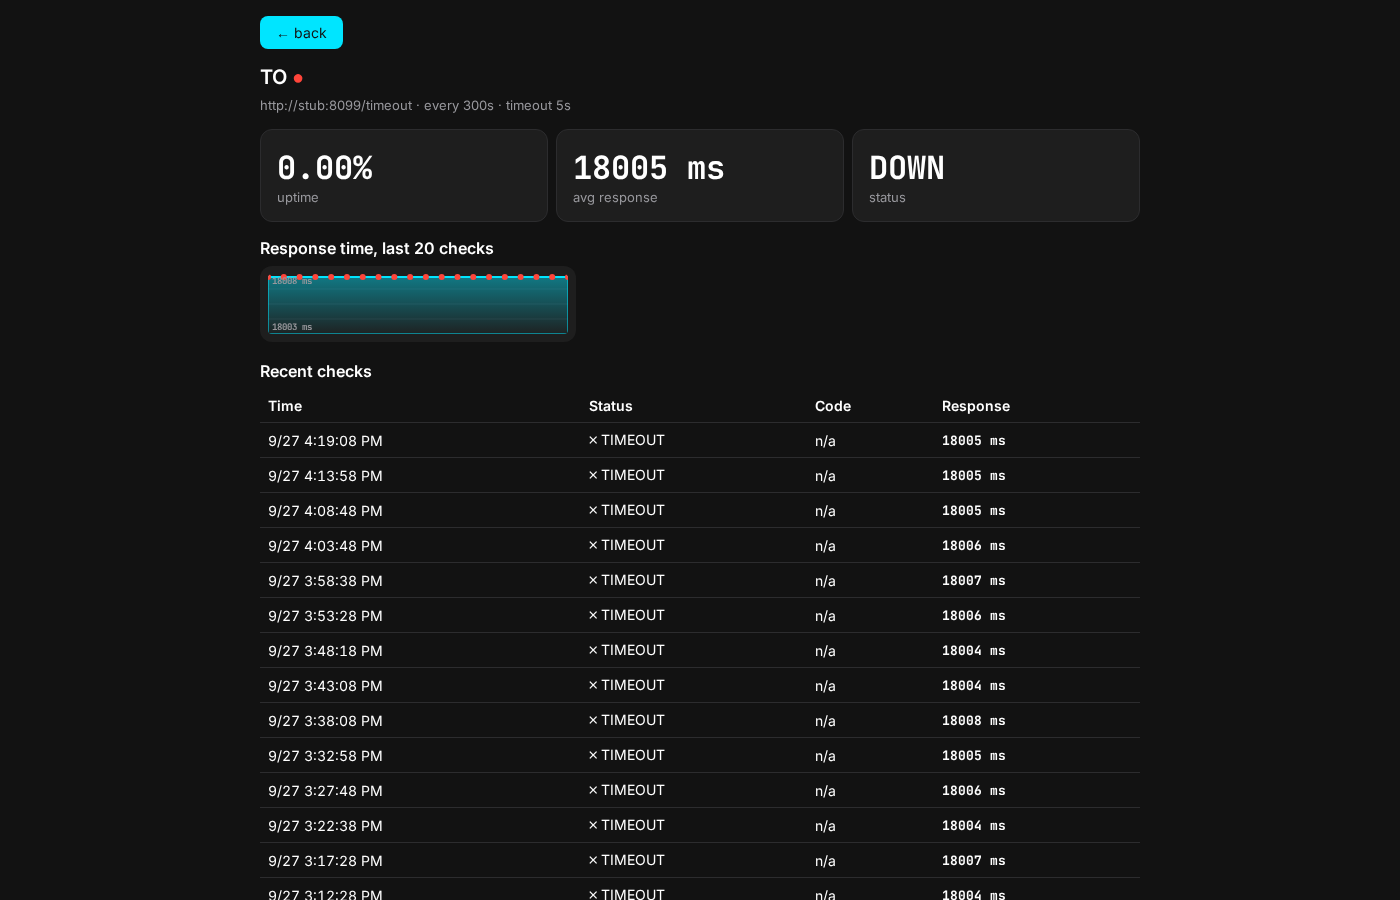
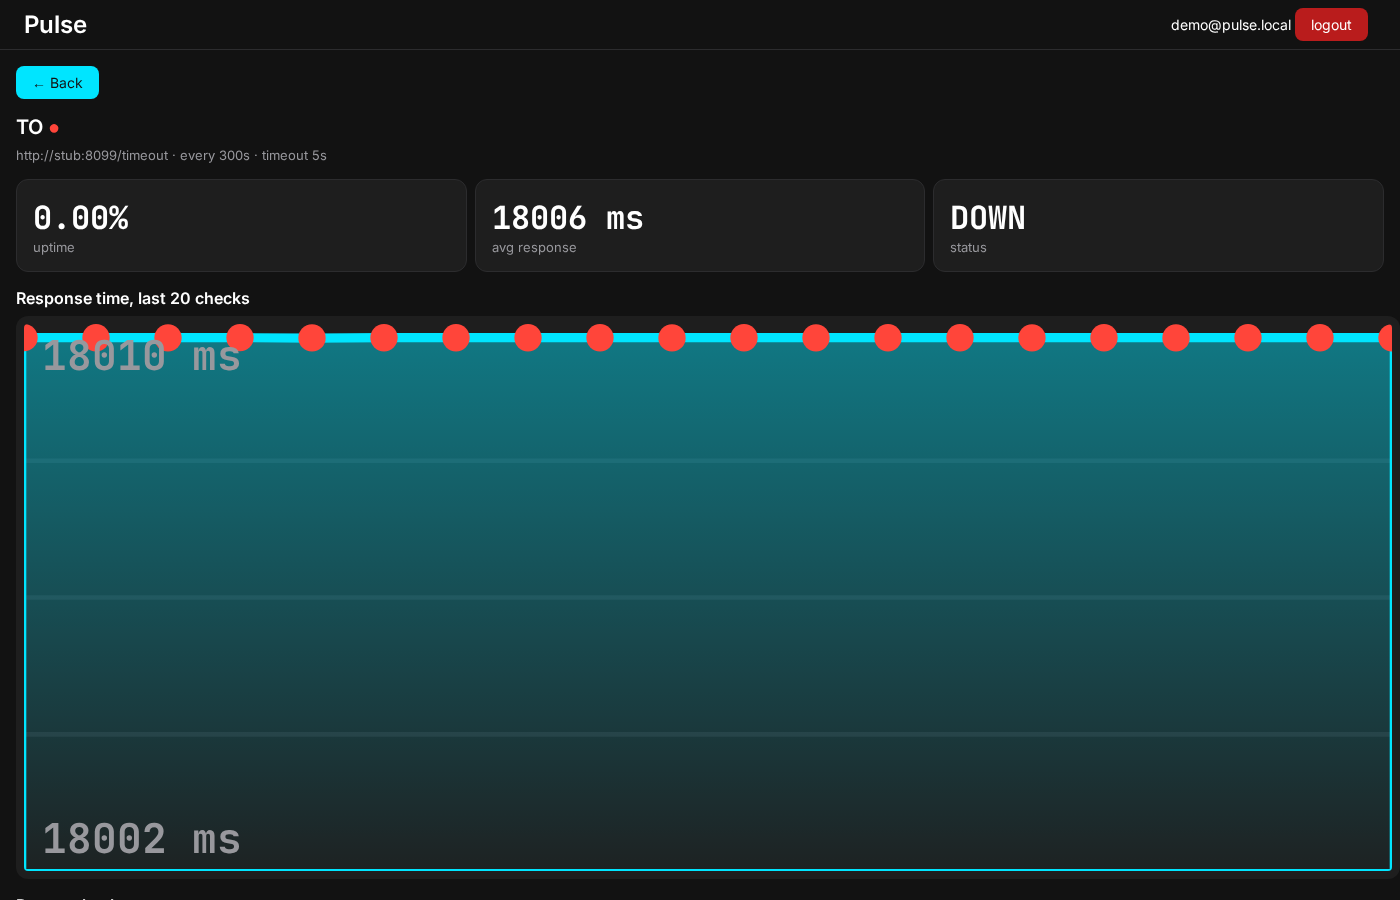
feat(ui): detail wide + Back + big chart + persistent header, fix dup tabs

diff --git a/src/features/monitors/components/MonitorDetailScreen.jsx b/src/features/monitors/components/MonitorDetailScreen.jsx
@@ -4,100 +4,113 @@ import { formatDateTime, formatCheckTime } from '../../../utils/formatDate.js'
 import { Dot } from '../../../components/ui/Dot.jsx'
 import { Spark } from '../../../components/ui/Spark.jsx'
 import { DetailStats } from '../../../components/ui/Stats.jsx'
+import { Topbar } from '../../../components/ui/Topbar.jsx'
 
-export function MonitorDetailScreen({ monitorUC, id, onBack, onChanged }) {
+export function MonitorDetailScreen({ monitorUC, id, onBack, onChanged, user, onLogout }) {
   const { monitor: m, checks, incidents, loading, loadError, reload } = useMonitorDetail(monitorUC, id)
 
   if (loading)
     return (
-      <div className="wrap">
-        <p className="muted">Loading monitor…</p>
-      </div>
+      <>
+        <Topbar email={user.email} onLogout={onLogout} />
+        <div className="wrap wrap-wide">
+          <p className="muted">Loading monitor…</p>
+        </div>
+      </>
     )
   if (loadError) {
     return (
-      <div className="wrap">
-        <p className="error">{loadError}</p>
-        <button onClick={reload}>Retry</button> <button onClick={onBack}>← back</button>
-      </div>
+      <>
+        <Topbar email={user.email} onLogout={onLogout} />
+        <div className="wrap wrap-wide">
+          <p className="error">{loadError}</p>
+          <button onClick={reload}>Retry</button> <button onClick={onBack}>← Back</button>
+        </div>
+      </>
     )
   }
 
   if (!m)
     return (
-      <div className="wrap">
-        <p className="muted">Monitor not found. It may have been deleted.</p>
-        <button onClick={onBack}>← back</button>
-      </div>
+      <>
+        <Topbar email={user.email} onLogout={onLogout} />
+        <div className="wrap wrap-wide">
+          <p className="muted">Monitor not found. It may have been deleted.</p>
+          <button onClick={onBack}>← Back</button>
+        </div>
+      </>
     )
 
   const uptime = uptimePct(checks)
   const avg = avgResponseMs(checks)
 
   return (
-    <div className="wrap">
-      <button
-        onClick={() => {
-          onBack()
-          onChanged?.()
-        }}
-      >
-        ← back
-      </button>
-      <h2>
-        {m.name} <Dot status={m.status} />
-      </h2>
-      <div className="muted">
-        {m.url} · every {m.intervalSeconds}s · timeout {m.timeoutSeconds}s
-      </div>
-      <DetailStats
-        uptime={uptime == null ? 'n/a' : uptime.toFixed(2)}
-        avg={avg == null ? 'n/a' : avg}
-        status={m.status}
-      />
-      <h3>Response time, last 20 checks</h3>
-      <Spark checks={checks} />
-      <h3>Recent checks</h3>
-      <div className="table-scroll">
-        <table>
-          <thead>
-            <tr>
-              <th scope="col">Time</th>
-              <th scope="col">Status</th>
-              <th scope="col">Code</th>
-              <th scope="col">Response</th>
-            </tr>
-          </thead>
-          <tbody>
-            {checks.map((c, i) => {
-              const d = checkDisplay(c)
-              return (
-                <tr key={`${c.checkedAt}-${i}`}>
-                  <td>{formatCheckTime(c.checkedAt)}</td>
-                  <td>
-                    {d.mark} {c.status}
-                  </td>
-                  <td>{d.code}</td>
-                  <td className="mono">{d.response}</td>
-                </tr>
-              )
-            })}
-          </tbody>
-        </table>
-      </div>
-      <h3>Incidents</h3>
-      {incidents.length === 0 && <div className="muted">none</div>}
-      {incidents.map((in_) => (
-        <div key={in_.id} className="card">
-          <b>{in_.status}</b>: {in_.reason} ·{' '}
-          <span className="mono">{incidentDuration(in_.startedAt, in_.resolvedAt)}</span>
-          <br />
-          <span className="muted">
-            {formatDateTime(in_.startedAt)}
-            {in_.resolvedAt ? ' → ' + formatDateTime(in_.resolvedAt) : ' (ongoing)'}
-          </span>
+    <>
+      <Topbar email={user.email} onLogout={onLogout} />
+      <div className="wrap wrap-wide">
+        <button
+          onClick={() => {
+            onBack()
+            onChanged?.()
+          }}
+        >
+          ← Back
+        </button>
+        <h2>
+          {m.name} <Dot status={m.status} />
+        </h2>
+        <div className="muted">
+          {m.url} · every {m.intervalSeconds}s · timeout {m.timeoutSeconds}s
         </div>
-      ))}
-    </div>
+        <DetailStats
+          uptime={uptime == null ? 'n/a' : uptime.toFixed(2)}
+          avg={avg == null ? 'n/a' : avg}
+          status={m.status}
+        />
+        <h3>Response time, last 20 checks</h3>
+        <Spark checks={checks} />
+        <h3>Recent checks</h3>
+        <div className="table-scroll">
+          <table>
+            <thead>
+              <tr>
+                <th scope="col">Time</th>
+                <th scope="col">Status</th>
+                <th scope="col">Code</th>
+                <th scope="col">Response</th>
+              </tr>
+            </thead>
+            <tbody>
+              {checks.map((c, i) => {
+                const d = checkDisplay(c)
+                return (
+                  <tr key={`${c.checkedAt}-${i}`}>
+                    <td>{formatCheckTime(c.checkedAt)}</td>
+                    <td>
+                      {d.mark} {c.status}
+                    </td>
+                    <td>{d.code}</td>
+                    <td className="mono">{d.response}</td>
+                  </tr>
+                )
+              })}
+            </tbody>
+          </table>
+        </div>
+        <h3>Incidents</h3>
+        {incidents.length === 0 && <div className="muted">none</div>}
+        {incidents.map((in_) => (
+          <div key={in_.id} className="card">
+            <b>{in_.status}</b>: {in_.reason} ·{' '}
+            <span className="mono">{incidentDuration(in_.startedAt, in_.resolvedAt)}</span>
+            <br />
+            <span className="muted">
+              {formatDateTime(in_.startedAt)}
+              {in_.resolvedAt ? ' → ' + formatDateTime(in_.resolvedAt) : ' (ongoing)'}
+            </span>
+          </div>
+        ))}
+      </div>
+    </>
   )
 }

diff --git a/src/app/DashboardScreen.jsx b/src/app/DashboardScreen.jsx
@@ -3,6 +3,7 @@ import { useDashboard } from '../features/monitors/hooks.js'
 import { countOpen } from '../domain/stats.js'
 import { ago } from '../utils/formatDate.js'
 import { SummaryStats } from '../components/ui/Stats.jsx'
+import { Topbar } from '../components/ui/Topbar.jsx'
 import { MonitorList } from '../features/monitors/components/MonitorList.jsx'
 import { IncidentList } from '../features/incidents/components/IncidentList.jsx'
 import { ReportsView } from '../features/reports/components/ReportsView.jsx'
@@ -32,17 +33,7 @@ export function DashboardScreen({ user, monitorUC, onLogout, onSelect }) {
 
   return (
     <>
-      <header className="topbar">
-        <div className="topbar-inner">
-          <h1>Pulse</h1>
-          <div>
-            {user.email}{' '}
-            <button className="logout" onClick={onLogout}>
-              logout
-            </button>
-          </div>
-        </div>
-      </header>
+      <Topbar email={user.email} onLogout={onLogout} />
       <div className="wrap wrap-wide">
         <SummaryStats summary={summary} />
         {open > 0 && (
@@ -98,9 +89,6 @@ export function DashboardScreen({ user, monitorUC, onLogout, onSelect }) {
             )}
           </>
         )}
-        {tab === 'incidents' && <IncidentList incidents={incidents} onSelect={onSelect} />}
-        {tab === 'reports' && <ReportsView monitorUC={monitorUC} />}
-        {tab === 'new' && <MonitorForm onCreate={create} />}
         {tab === 'incidents' && <IncidentList incidents={incidents} onSelect={onSelect} />}
         {tab === 'reports' && <ReportsView monitorUC={monitorUC} />}
         {tab === 'new' && <MonitorForm onCreate={create} />}

diff --git a/src/components/ui/Spark.jsx b/src/components/ui/Spark.jsx
@@ -3,11 +3,12 @@ import { sparkPoints } from '../../domain/stats.js'
 
 // Area chart (WattVision Do: area fill softens peaks). Geometry from domain,
 // SVG only here. Grid + gradient only; DOWN points marked red.
+// Responsive: viewBox scales to container width.
 const W = 300
-const H = 60
+const H = 120
 
 export function Spark({ checks }) {
-  const { points, path } = sparkPoints(checks)
+  const { points, path } = sparkPoints(checks, W, H)
   const gid = useId()
   if (!points.length) return <div className="muted">no data yet</div>
   const last = points[points.length - 1]
@@ -17,9 +18,8 @@ export function Spark({ checks }) {
   const min = Math.min(...timed)
   return (
     <svg
-      width={W}
-      height={H}
-      className="spark"
+      viewBox={`0 0 ${W} ${H}`}
+      className="spark spark-fluid"
       role="img"
       aria-label={`Response time, min ${min} ms, max ${max} ms`}
     >

diff --git a/src/components/ui/Topbar.jsx b/src/components/ui/Topbar.jsx
@@ -1,0 +1,15 @@
+export function Topbar({ email, onLogout }) {
+  return (
+    <header className="topbar">
+      <div className="topbar-inner">
+        <h1>Pulse</h1>
+        <div>
+          {email}{' '}
+          <button className="logout" onClick={onLogout}>
+            logout
+          </button>
+        </div>
+      </div>
+    </header>
+  )
+}

diff --git a/src/app/App.jsx b/src/app/App.jsx
@@ -41,6 +41,8 @@ function Shell() {
         id={selectedId}
         onBack={() => setSelectedId(null)}
         onChanged={() => setDashKey((k) => k + 1)}
+        user={auth.user}
+        onLogout={auth.logout}
       />
     )
   }

diff --git a/src/styles/index.css b/src/styles/index.css
@@ -223,6 +223,11 @@ tbody tr:hover {
   border-radius: var(--radius-m);
   padding: 8px;
 }
+.spark-fluid {
+  width: 100%;
+  height: auto;
+  display: block;
+}
 .spark path {
   stroke: var(--accent);
 }
